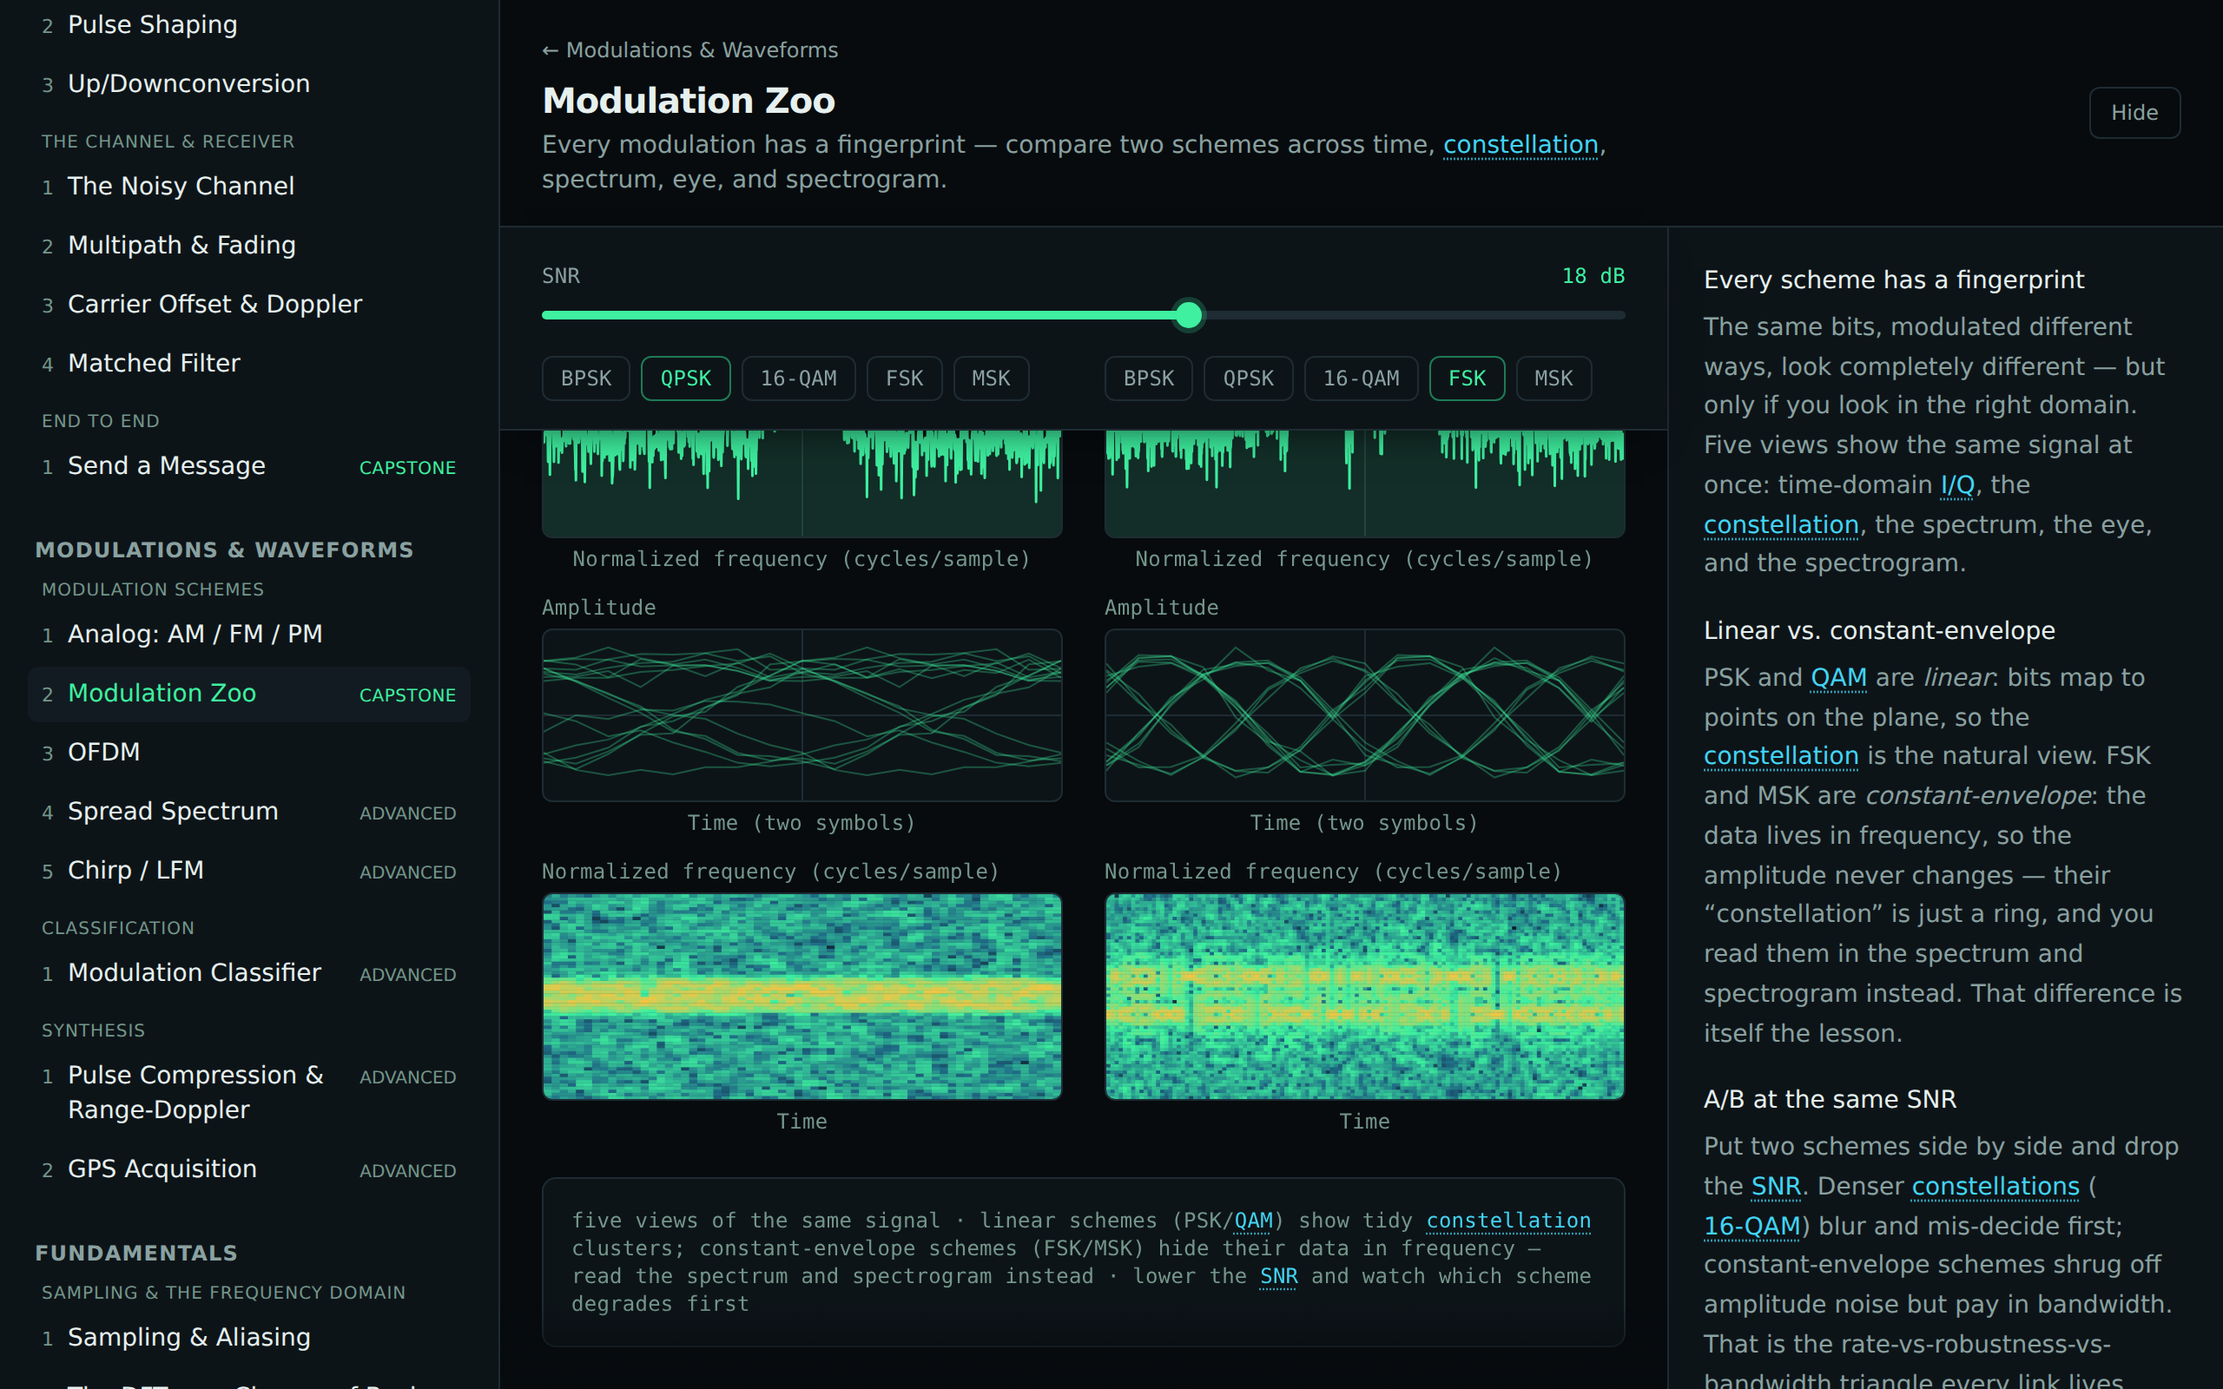
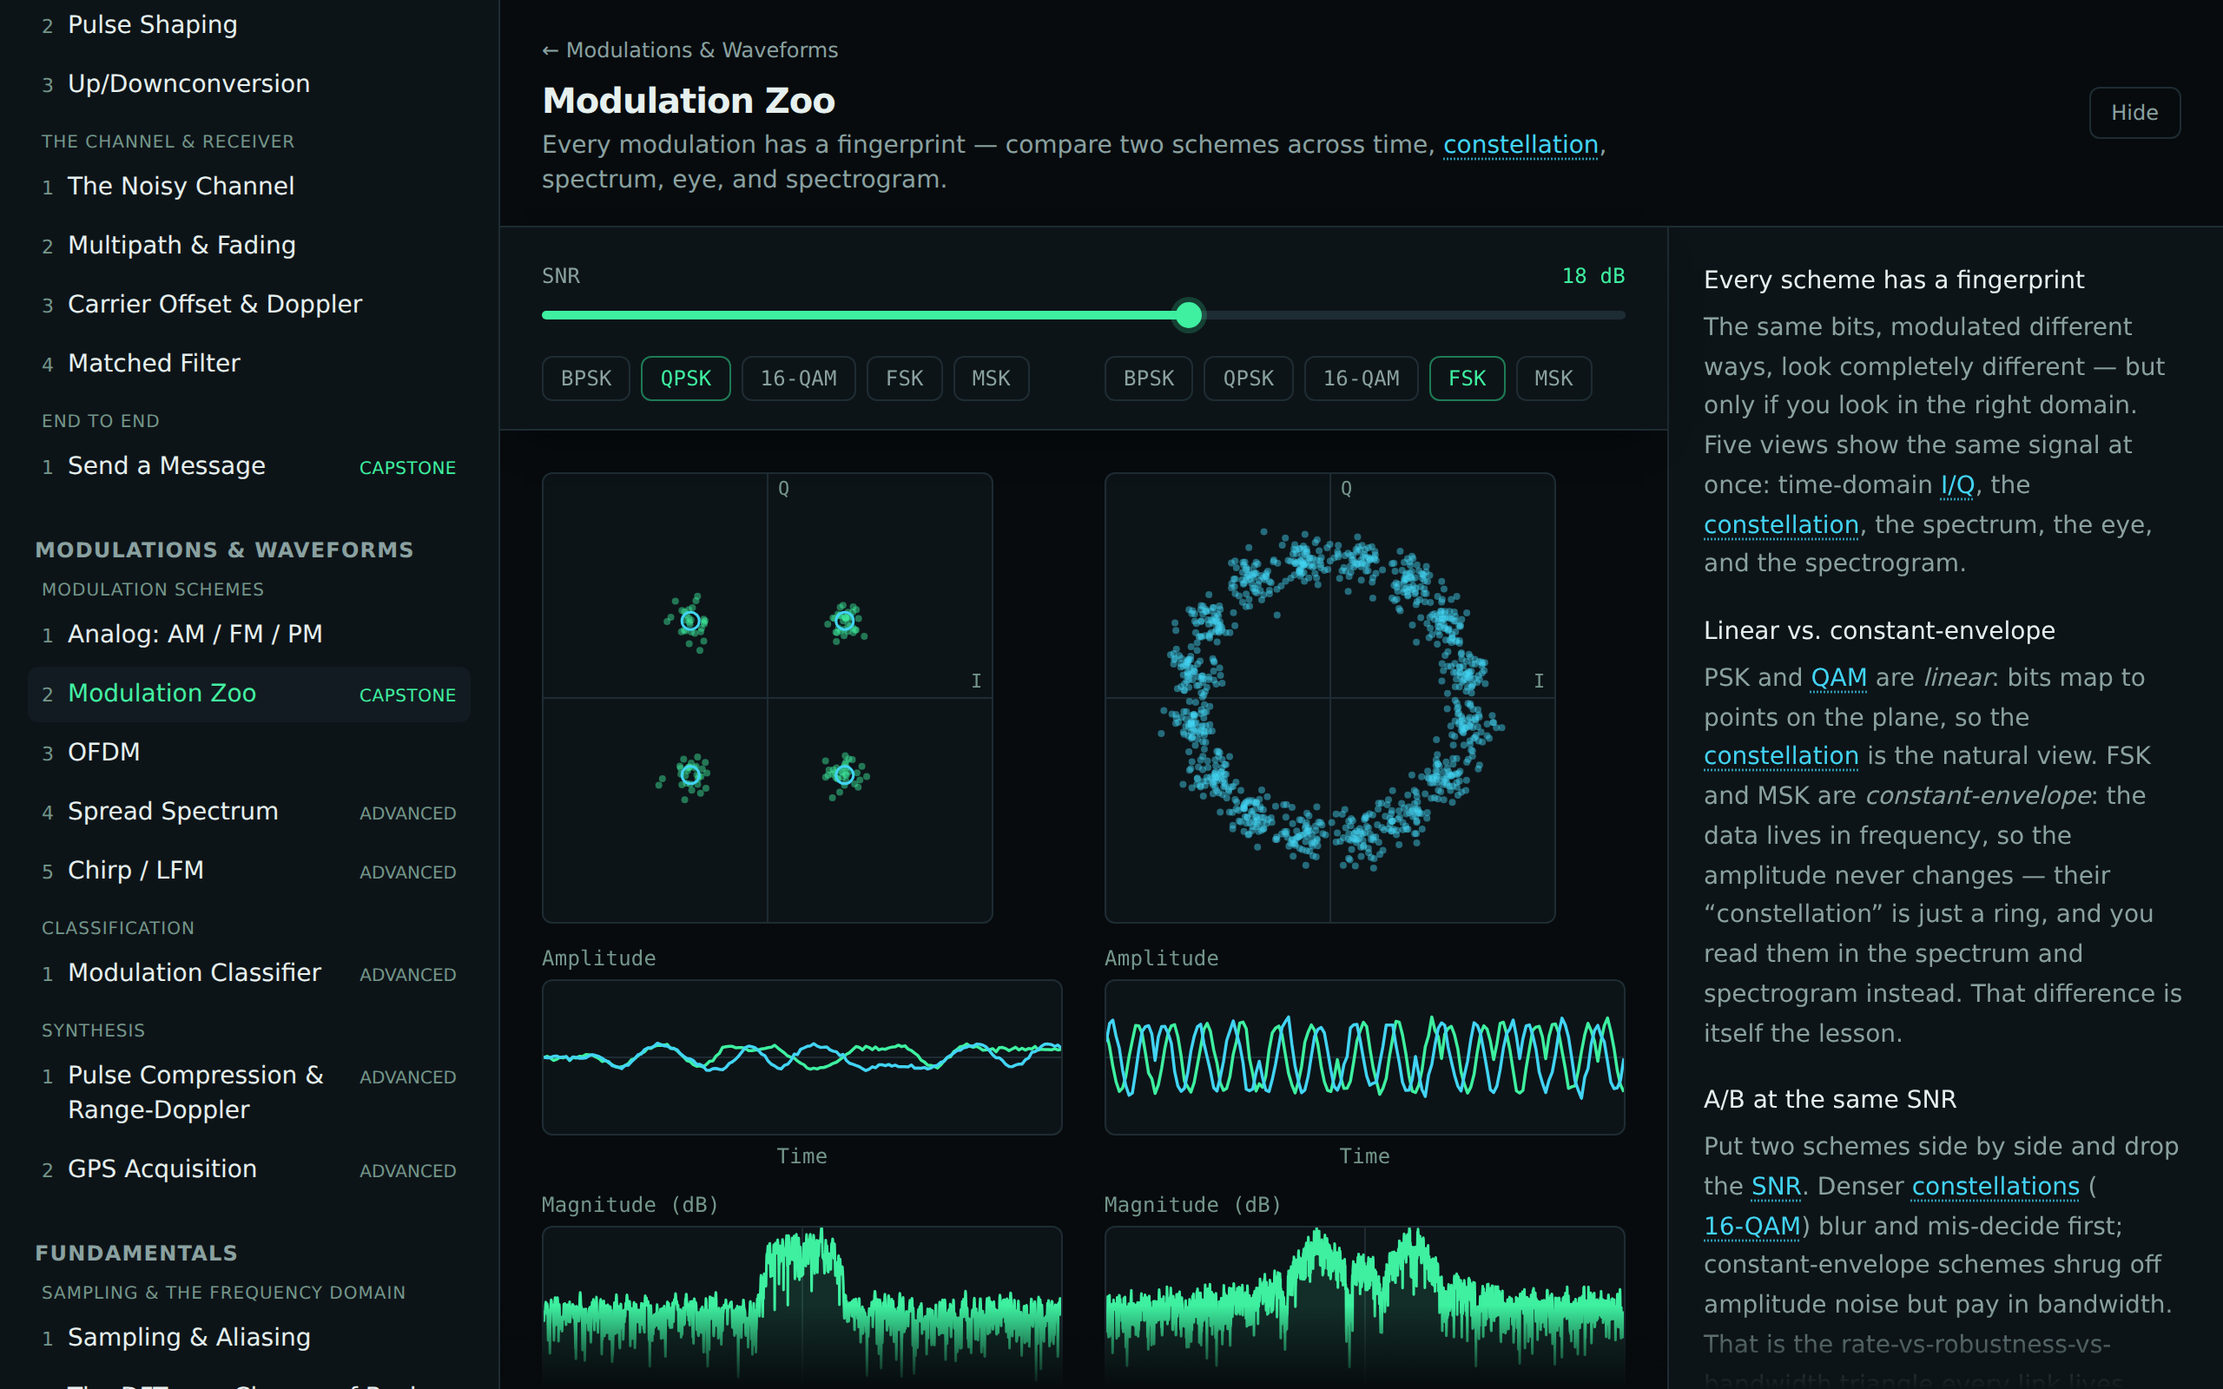
feat(layout): add the bottom-fade scroll cue to the explanation side-rail
The right-hand explanation panel (ASIDE) is the app's second main content
scroll region, but only the module plot region signaled "more below" with a
bottom fade. Give the side-rail the same cue so both main scroll regions match
(they already share the app-wide scrollbar styling).

The panel now holds the scroller plus an overlay fade; the explanation scrolls
within. The fade is token-derived and fades to the panel's own surface — the
color behind the text — so a long explanation fades out at the bottom while a
short, non-scrolling one leaves bare surface under the fade and shows nothing.
No JS overflow check needed.

Also finalizes the affordance convention docs (CONTRIBUTING, ARCHITECTURE,
index.css) for the now-complete system — controls pin to whichever edge they're
anchored on, and both main scroll regions carry the bottom-fade cue — and
captures the Modulation Zoo gallery shot from its natural top-of-module view.

Layout/CSS only; explanation copy and behavior are unchanged.

Claude-Session: https://claude.ai/code/session_016qEwCXYNqU49FBaMaqK731

diff --git a/src/components/layout/ModuleView.tsx b/src/components/layout/ModuleView.tsx
@@ -11,9 +11,11 @@ import { useAppStore } from '@/store/appStore';
  * The module column is laid out as a **scrolling plot region between a pinned header and footer**: the
  * plots scroll in `.wf-scroll`, and a module's primary controls portal into the header or footer via
  * `<ControlRail edge>` so they stay co-visible with the plot they drive whichever edge they're
- * anchored on — the plots scroll *up to* the rail and stop, never under it. A **bottom fade** on the
- * scroll region is the "more below" cue (a forced/persistent scrollbar was dropped — modern browsers
- * auto-hide overlay scrollbars regardless). See CONTRIBUTING → "Keep controls co-visible".
+ * anchored on — the plots scroll *up to* the rail and stop, never under it. A **bottom fade** is the
+ * scroll cue on both main scroll regions (the plot region and the explanation side-rail): partial
+ * content fades into the background at the bottom edge, signaling "more below" (a forced/persistent
+ * scrollbar was dropped — modern browsers auto-hide overlay scrollbars regardless). See CONTRIBUTING →
+ * "Keep controls co-visible".
  */
 export function ModuleView({ moduleId }: { moduleId: string }) {
   const setActiveModule = useAppStore((s) => s.setActiveModule);
@@ -81,8 +83,16 @@ export function ModuleView({ moduleId }: { moduleId: string }) {
           <div ref={setFooter} className="relative z-10 empty:hidden" />
         </main>
         {Explanation && drawerOpen && (
-          <aside className="w-80 shrink-0 overflow-y-auto border-l border-border bg-surface px-5 py-5 text-sm leading-relaxed text-text-muted">
-            <Explanation />
+          // The explanation side-rail is the app's second main scroll region, so it gets the same
+          // bottom-fade cue as the plot region: the panel holds the scroller and an overlay fade, and
+          // the plain text scrolls within. The fade is token-derived (→ surface, the panel's own bg),
+          // so a long explanation fades out at the bottom ("more below") while a short one leaves bare
+          // surface under the fade — invisible — so it never dims a non-scrolling panel.
+          <aside className="flex w-80 shrink-0 flex-col border-l border-border bg-surface">
+            <div className="min-h-0 flex-1 overflow-y-auto px-5 py-5 text-sm leading-relaxed text-text-muted">
+              <Explanation />
+            </div>
+            <div className="wf-aside-fade pointer-events-none relative z-10 -mt-12 h-12 bg-gradient-to-b from-transparent to-surface" />
           </aside>
         )}
       </div>

diff --git a/e2e/screenshots.spec.ts b/e2e/screenshots.spec.ts
@@ -193,11 +193,14 @@ test('modulation zoo module', async ({ page }) => {
   await page.getByRole('button', { name: 'Modulation Zoo' }).first().click();
   const spectrogram = page.getByRole('img', { name: /QPSK spectrogram/i });
   await expect(spectrogram).toBeVisible();
-  // The mirror image of the radar's pinned footer: Modulation Zoo's controls are top-anchored, so the
-  // SNR slider + scheme chips pin in a header above the scroll region. Confirm the region overflows
-  // and shows the bottom-fade cue, then scroll to a lower plot row (the spectrogram) and check the SNR
-  // slider stays co-visible AND the plot row scrolls *beneath* the pinned header, never under it.
-  // (CONTRIBUTING → "Keep controls co-visible with their target plot".)
+  // Gallery shot first: the natural top-of-module view — the pinned SNR/chip header above the
+  // constellation row, with the bottom fade cueing more below.
+  await page.screenshot({ path: path.join(IMG_DIR, 'modulation-zoo.png') });
+  // Then the layout guard, the mirror image of the radar's pinned footer: Modulation Zoo's controls
+  // are top-anchored, so the SNR slider + scheme chips pin in a header above the scroll region.
+  // Confirm the region overflows and shows the bottom-fade cue, then scroll to a lower plot row (the
+  // spectrogram) and check the SNR slider stays co-visible AND the plot row scrolls *beneath* the
+  // pinned header, never under it. (CONTRIBUTING → "Keep controls co-visible with their target plot".)
   const scroll = page.locator('.wf-scroll');
   expect(await scroll.evaluate((el) => el.scrollHeight > el.clientHeight + 1)).toBe(true);
   await expect(page.locator('.wf-scroll-fade')).toBeVisible();
@@ -210,7 +213,6 @@ test('modulation zoo module', async ({ page }) => {
   const plotBox = await spectrogram.boundingBox();
   if (!railBox || !plotBox) throw new Error('rail or plot not laid out');
   expect(railBox.y + railBox.height).toBeLessThanOrEqual(plotBox.y + 1);
-  await page.screenshot({ path: path.join(IMG_DIR, 'modulation-zoo.png') });
 });
 
 test('ofdm module', async ({ page }) => {

diff --git a/src/index.css b/src/index.css
@@ -160,11 +160,17 @@ html {
 }
 
 /*
- * The bottom-fade scroll cue (`ModuleView`'s `.wf-scroll-fade`) belongs only to modules whose
- * controls are pinned in a rail (`.wf-rail`): there the controls live outside the scroll region, so
- * the fade only ever covers plots. A module *without* a rail keeps its controls at the end of the
- * scroll content, so hide the fade for it — it must never dim the last controls at the bottom, the
- * one spot they should be fully readable. (Default scrollbar still cues scrollability there.)
+ * The bottom-fade scroll cue. Both main content scroll regions carry it: the module plot region
+ * (`.wf-scroll-fade`, fading to `bg`) and the explanation side-rail (`.wf-aside-fade`, fading to the
+ * panel's own `surface`). Each is an overlay pinned to the bottom edge of its region, fading to the
+ * color *behind* that region — so when a region doesn't overflow, the fade sits over bare background
+ * and shows nothing (this is how the side-rail self-hides on a short explanation; no JS needed).
+ *
+ * The module fade has one extra rule: it belongs only to modules whose controls are pinned in a rail
+ * (`.wf-rail`, top- or bottom-anchored) — there the controls live outside the scroll region, so the
+ * fade only ever covers plots. A module *without* a rail keeps its controls at the end of the scroll
+ * content, so hide the fade for it — it must never dim the last controls at the bottom, the one spot
+ * they should be fully readable. (Default scrollbar still cues scrollability there.)
  */
 main:not(:has(.wf-rail)) .wf-scroll-fade {
   display: none;

diff --git a/CONTRIBUTING.md b/CONTRIBUTING.md
@@ -232,30 +232,39 @@ same way everywhere (documented so new tracks inherit it):
 Wavefront is drag-and-watch: a control and the visualization it changes must stay **co-visible** — a
 reader must never have to choose between seeing the sliders and seeing the plot they affect. Most
 modules have a plot or two above the controls, so this holds for free. The **synthesis** modules that
-stack several representations (the radar range-Doppler scene; GPS and ionospheric sounding to come)
-push the controls below the fold, and the drag-watch loop silently breaks on exactly the modules that
-most need it.
+stack several representations push the controls off the fold, and the drag-watch loop silently breaks
+on exactly the modules that most need it — whether the controls sit at the **bottom** (the radar
+range-Doppler scene; GPS acquisition) and scroll off below, or at the **top** (the Modulation Zoo's
+SNR slider + scheme chips, with plot rows stacked beneath) and scroll off above.
 
-The shared mechanism is **`<ControlRail>`** (`src/components/ControlRail.tsx`): wrap a module's
-primary controls in it and `ModuleView` lays the column out as a **scrolling plot region above a
-pinned footer** — the rail portals into the footer, so the plots scroll _up to_ its top edge and
-stop, **never under it** (an in-flow `sticky` footer can't avoid that: the content shares its scroll
-box and slides beneath, showing a peek-through strip). The rail is a solid, opaque `bg-surface`
-floor with a top border + shadow. Place the module's **marquee / target plot last** so it sits
-directly above the rail (on the radar module, the range-Doppler map; the explanatory single-pulse
-plots sit above that). A tall module signals scrollability with a **bottom fade gradient** on the
-scroll region (`.wf-scroll`): partial plot content fades into the background at the bottom edge — the
-canonical "more below" cue. It's static and background-derived (never the green accent), and there's
-no per-module "scroll for more" text (one quiet visual cue, not prose). We don't try to _force_ the
-scrollbar visible (browsers auto-hide overlay scrollbars regardless), but when it does show it's a
-useful position indicator, so it's styled on-theme **app-wide** — a single global rule in
-`index.css` (nav, module region, and side-rail all match) styles every state (rest/hover/active — a
-quiet token-neutral thumb, never the green accent) so no scrollbar ever falls back to the default
-grey. The fade stays the scrollability cue; the scrollbar just shows position. Where this layout
-doesn't fit, the accepted alternatives are placing the controls **beside** a tall plot (two-column)
-or capping stacked-plot height. A Playwright check in `e2e/screenshots.spec.ts` asserts the radar map
-and its sliders are co-visible, the map never renders under the rail, and the fade cue is present —
-so the regression can't quietly return as more tall synthesis modules land.
+The shared mechanism is **`<ControlRail edge>`** (`src/components/ControlRail.tsx`): wrap a module's
+primary controls in it and `ModuleView` lays the column out as a **scrolling plot region between a
+pinned header and footer** — the rail portals into the slot for the edge it's anchored on (`edge`
+defaults to `"bottom"`; pass `edge="top"` for top-anchored controls), so the plots scroll _up to_ its
+edge and stop, **never under it** (an in-flow `sticky` rail can't avoid that: the content shares its
+scroll box and slides beneath, showing a peek-through strip). **Pin controls to whichever edge they
+live on, so the loop is never severed regardless of control placement.** The rail is a solid, opaque
+`bg-surface` floor/ceiling with a border + shadow on the side that faces the plots (a bottom rail
+borders/shadows up; a top rail borders/shadows down). For a bottom rail, place the module's **marquee
+/ target plot last** so it sits directly above the rail (on the radar module, the range-Doppler map;
+the explanatory single-pulse plots sit above that). A tall module signals scrollability with a
+**bottom fade gradient** — partial content fades into the background at the bottom edge, the canonical
+"more below" cue. It's used on **both main content scroll regions**: the module plot region
+(`.wf-scroll`, fading to `bg`) and the explanation side-rail (`.wf-aside-fade`, fading to the panel's
+own `surface`). Because each fades to the color behind it, a panel that doesn't overflow leaves bare
+background under the fade and shows nothing — so a short explanation never gets a phantom gradient.
+The fade is static and background-derived (never the green accent), and there's no per-module "scroll
+for more" text (one quiet visual cue, not prose). We don't try to _force_ the scrollbar visible
+(browsers auto-hide overlay scrollbars regardless), but when it does show it's a useful position
+indicator, so it's styled on-theme **app-wide** — a single global rule in `index.css` (nav, module
+region, and side-rail all match) styles every state (rest/hover/active — a quiet token-neutral thumb,
+never the green accent) so no scrollbar ever falls back to the default grey. The fade stays the
+scrollability cue; the scrollbar just shows position. Where this layout doesn't fit, the accepted
+alternatives are placing the controls **beside** a tall plot (two-column) or capping stacked-plot
+height. Playwright checks in `e2e/screenshots.spec.ts` assert co-visibility for **both** edges — the
+radar map and its footer sliders (bottom), and the Modulation Zoo's pinned SNR/chip header with a
+lower plot row scrolled into view (top) — with the plot never rendering under the rail and the fade
+cue present, so the regression can't quietly return as more tall synthesis modules land.
 
 ## Coding conventions
 

diff --git a/CHANGELOG.md b/CHANGELOG.md
@@ -335,6 +335,17 @@ All notable changes to this project are documented here. The format is based on
 
 ### Changed
 
+- **Bottom-fade scroll cue added to the explanation side-rail.** The right-hand explanation panel
+  (`ASIDE`) is one of the app's two main content scroll regions — its write-ups routinely run past the
+  fold — but only the module plot region (`.wf-scroll`) signaled "more below" with a bottom fade; the
+  side-rail had no such cue, so its scrollability wasn't obvious. It now carries the **same** fade,
+  bringing both main scroll regions into alignment (they already shared the app-wide scrollbar styling).
+  The fade is token-derived and quiet (neutral, never the green accent) and — crucially — fades to the
+  panel's own `surface`, the color _behind_ the text: a long explanation fades out at the bottom edge,
+  while a short, non-scrolling one leaves bare surface under the fade and shows nothing, so it's never
+  dimmed. Layout/CSS only; explanation copy and behavior are unchanged. The Modulation Zoo marquee
+  screenshot is regenerated and shows the cue on its long explanation.
+
 - **Sticky controls now pin to whichever edge they're anchored on — top _or_ bottom (fixes Modulation
   Zoo).** The co-visibility rail (`<ControlRail>`) previously only pinned **bottom**-anchored controls
   (the radar / GPS footers); a module whose controls sit at the **top** with plot rows stacked below —

diff --git a/docs/ARCHITECTURE.md b/docs/ARCHITECTURE.md
@@ -176,4 +176,9 @@ There is no second list to maintain. (It's a learner reference; contributor docs
 - **Interactive affordance**: draggable canvas handles use a `grab`/`grabbing` cursor + a persistent
   halo + keyboard focus; sliders use a pointer cursor; chips look pressable; passive affordance is
   primary, with at most one quiet textual hint per map. See CONTRIBUTING → "Interactive affordance".
+- **Co-visible controls + scroll cues**: tall modules pin their primary controls in a `<ControlRail>`
+  (`ModuleView`) to whichever edge they're anchored on — top _or_ bottom — so a control and the plot
+  it drives never scroll apart. Both main scroll regions (the module plot region and the explanation
+  side-rail) carry a token-derived bottom-fade "more below" cue. See CONTRIBUTING → "Keep controls
+  co-visible with their target plot".
 - **Tests** are colocated (`*.test.ts`) for `dsp/` and registry logic.
